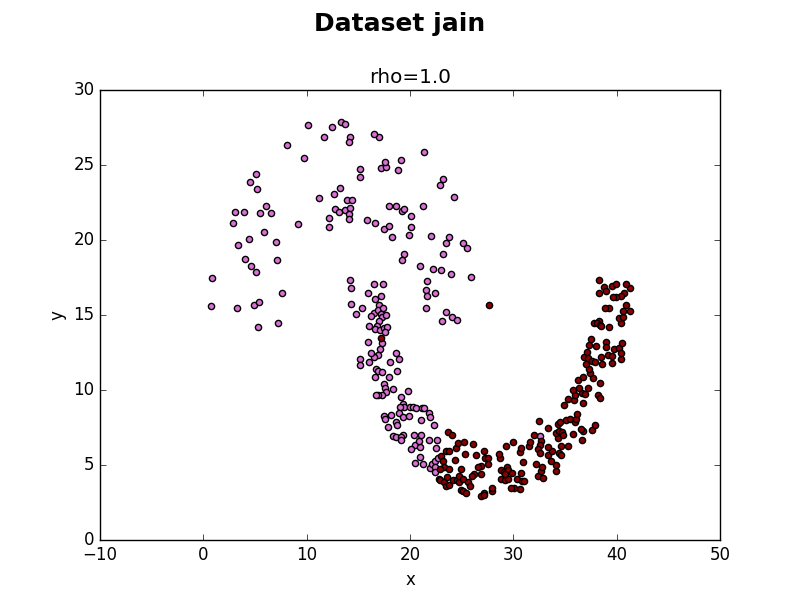
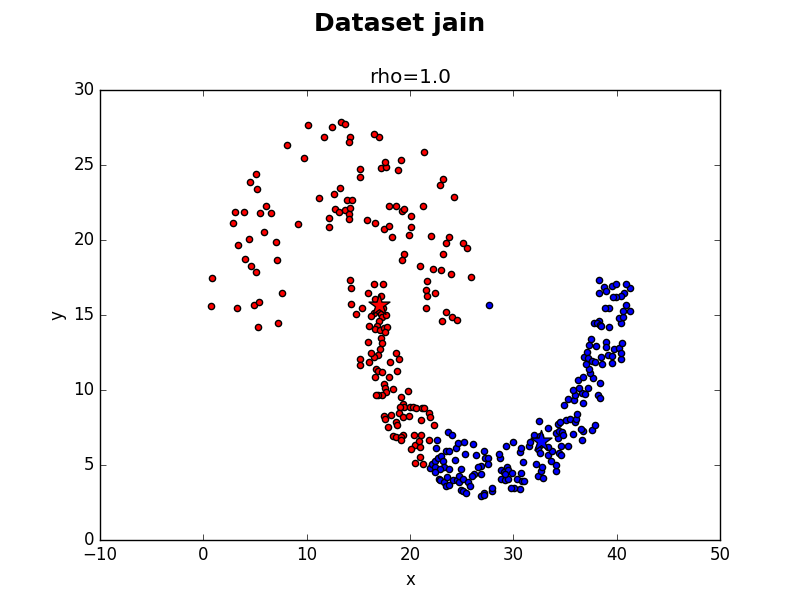
result jain

diff --git a/src/main_jain.py b/src/main_jain.py
@@ -1,5 +1,9 @@
 #!/usr/bin/python
 
+import matplotlib
+# Force matplotlib to not use any Xwindows backend.
+matplotlib.use('Agg')
+
 import numpy as np
 import os
 from Algorithms import Cluster
@@ -12,8 +16,8 @@ from Database import DatabaseIris, TwoDimensionData
 #a = ['Aggregation.txt' ] 
 # a = ['flame.txt', 'jain.txt']
 #a = [('spiral.txt', 3)]
-
-a = [('pathbased.txt', 3)]
+#a = [('pathbased.txt', 3)]
+a = [('jain.txt', 2)]
 
 results = []
 
@@ -28,7 +32,7 @@ for f, K in a:
     # for rho in [2.8]:
         dissimilarity = DensityDistance(rho=rho)
 
-        cluster = Cluster(database, dissimilarity, P_size=50, K=K, max_iterations=50)
+        cluster = Cluster(database, dissimilarity, P_size=50, K=K, max_iterations=100)
 
         score, score_normalized = cluster.compute()
         results.append((name, K, rho, score, score_normalized))

diff --git a/src/main_compute_graph.py b/src/main_compute_graph.py
@@ -12,7 +12,8 @@ from Database import DatabaseIris, TwoDimensionData
 # a = ['spiral.txt']
 #a = ['Aggregation.txt'  ,'Compound.txt'  ,'D31.txt'  ,'flame.txt' ,  'jain.txt' , 'pathbased.txt' , 'R15.txt' , 'spiral.txt']
 
-a = ['flame.txt', 'pathbased.txt', 'spiral.txt', 'jain.txt', 'Compound.txt', 'R15.txt']
+#a = ['flame.txt', 'pathbased.txt', 'spiral.txt', 'jain.txt', 'Compound.txt', 'R15.txt']
+a = ['Aggregation.txt']
 for f in a:
 
     print f
